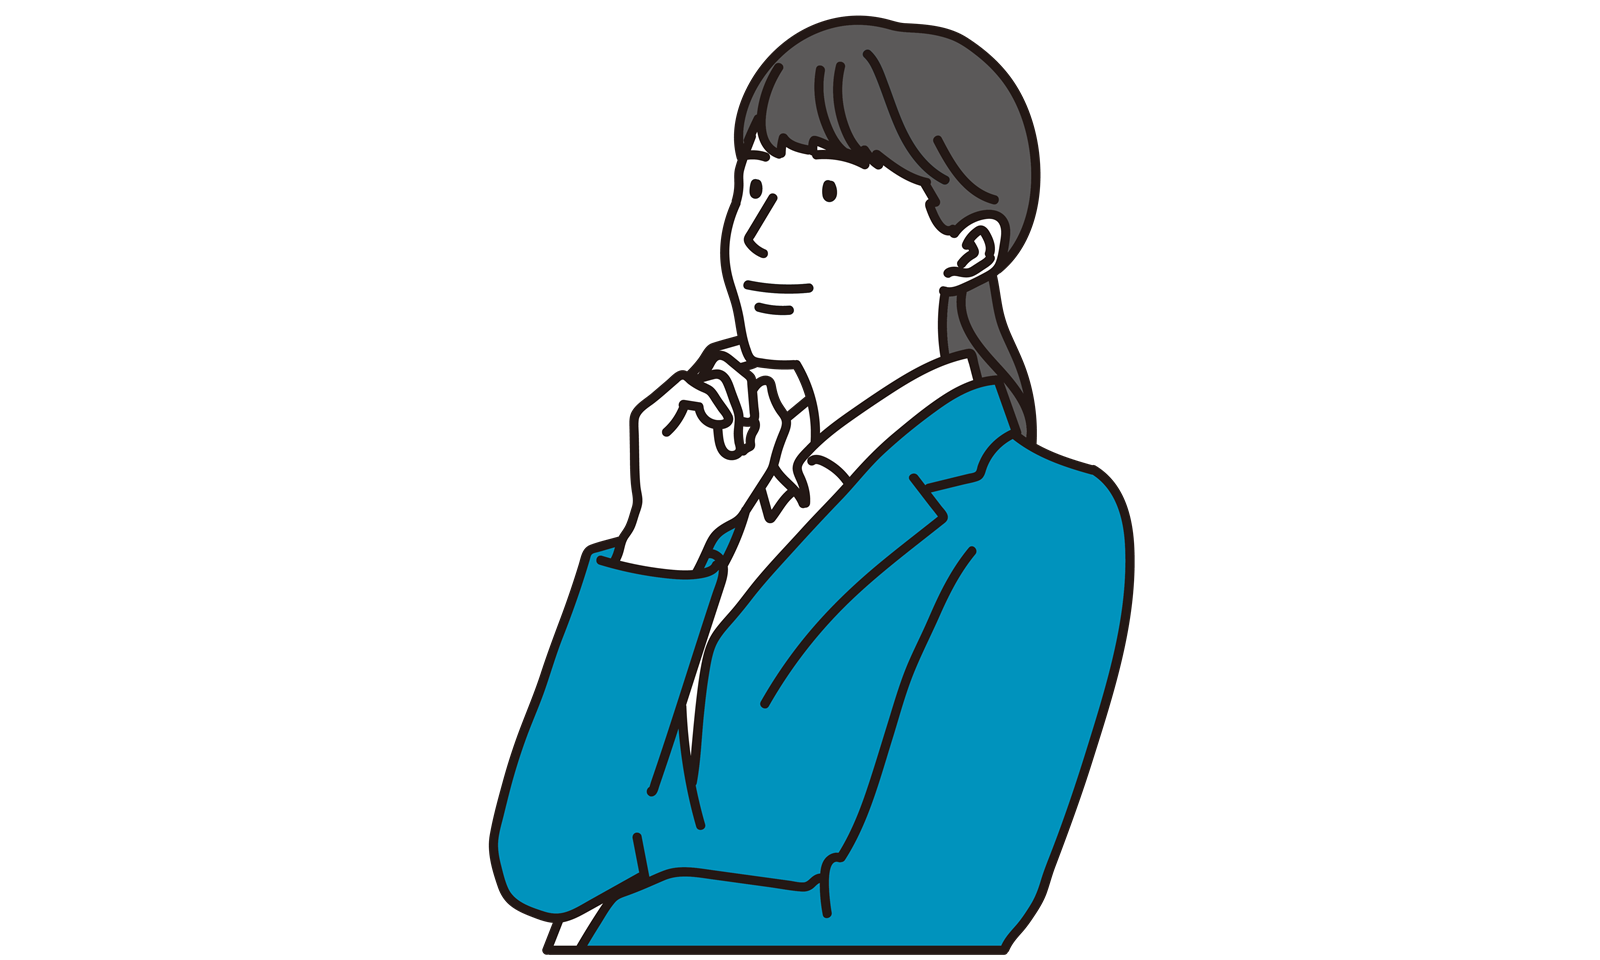
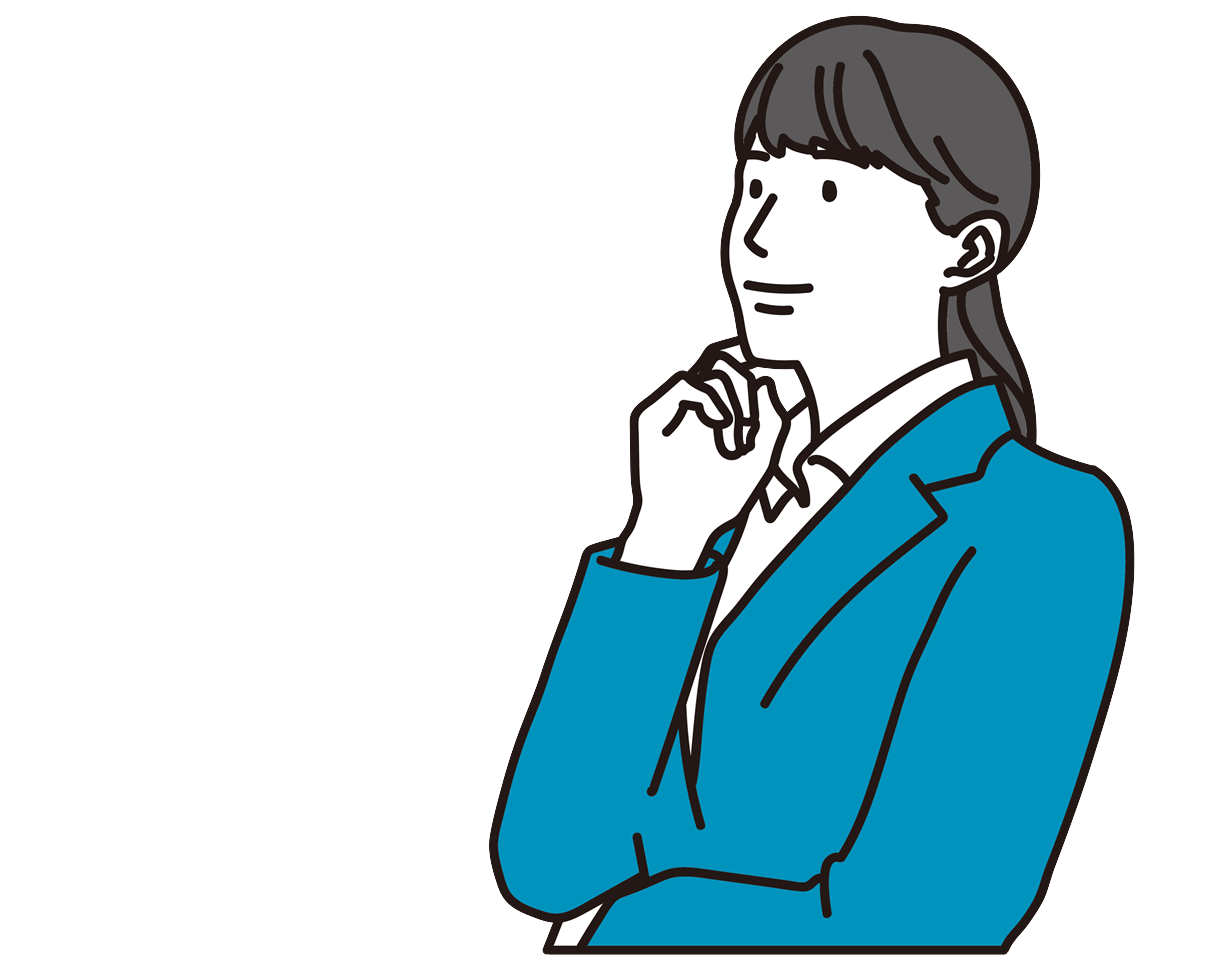
はみ出る画像解決

Changed region(s): [[0.2794, 0.0, 0.9314, 1.0], [0.6209, 0.6875, 0.652, 0.75], [0.4967, 0.625, 0.5278, 0.6875]]

diff --git a/style.css b/style.css
@@ -223,11 +223,11 @@ a {
 }
 
 .fourth_comment img {
-    width: 48vw;
-    max-width: 12.5625rem;
+    width: 40vw;
+    max-width: 9.5625rem;
     height: auto;
     position: absolute;
-    right: -2.5rem;
+    right: 0;
     transform: translateY(1.875rem);
 }
 
@@ -876,15 +876,13 @@ footer {
     }
 
     .fourth_comment p {
-        padding: 1.125rem 2.75rem 1.5rem 1.5rem;
+        padding: 1.025rem 2.75rem 1.2rem 1.5rem;
     }
 
     .fourth_comment img {
-        width: 20.625rem;
-        max-width: 20.625rem;
-        right: auto;
-        left: 50%;
-        transform: translate(10rem, -1.875rem);
+        min-width: 16rem;
+        right: 50%;
+        transform: translate(24rem, -1.875rem);
     }
 
     .fifth_belt img {
@@ -1162,7 +1160,7 @@ footer {
     }
 
     .fourth_section {
-        padding: 6.25rem 10vw 1.875rem 10vw;
+        padding: 6.25rem 5.6vw 1.875rem 5.6vw;
     }
 
     .fourth_discription_title {
@@ -1180,11 +1178,8 @@ footer {
     }
 
     .fourth_comment img {
-        width: 40vw;
-        max-width: 24.0625rem;
-        right: auto;
-        left: 50%;
-        transform: translate(14.375rem, -1.875rem);
+        min-width: 21.06rem;
+        transform: translate(31.375rem, -1.875rem);
     }
     
     .fifth_btn {
@@ -1310,6 +1305,11 @@ footer {
 }
 
 @media screen and (min-width: 1200px) {
+    .fourth_comment img {
+        min-width: 24.06rem;
+        transform: translate(35.375rem, -5.175rem);
+    }
+
     .footer_img_0,
     .footer_img_1 {
         width: 100%;
